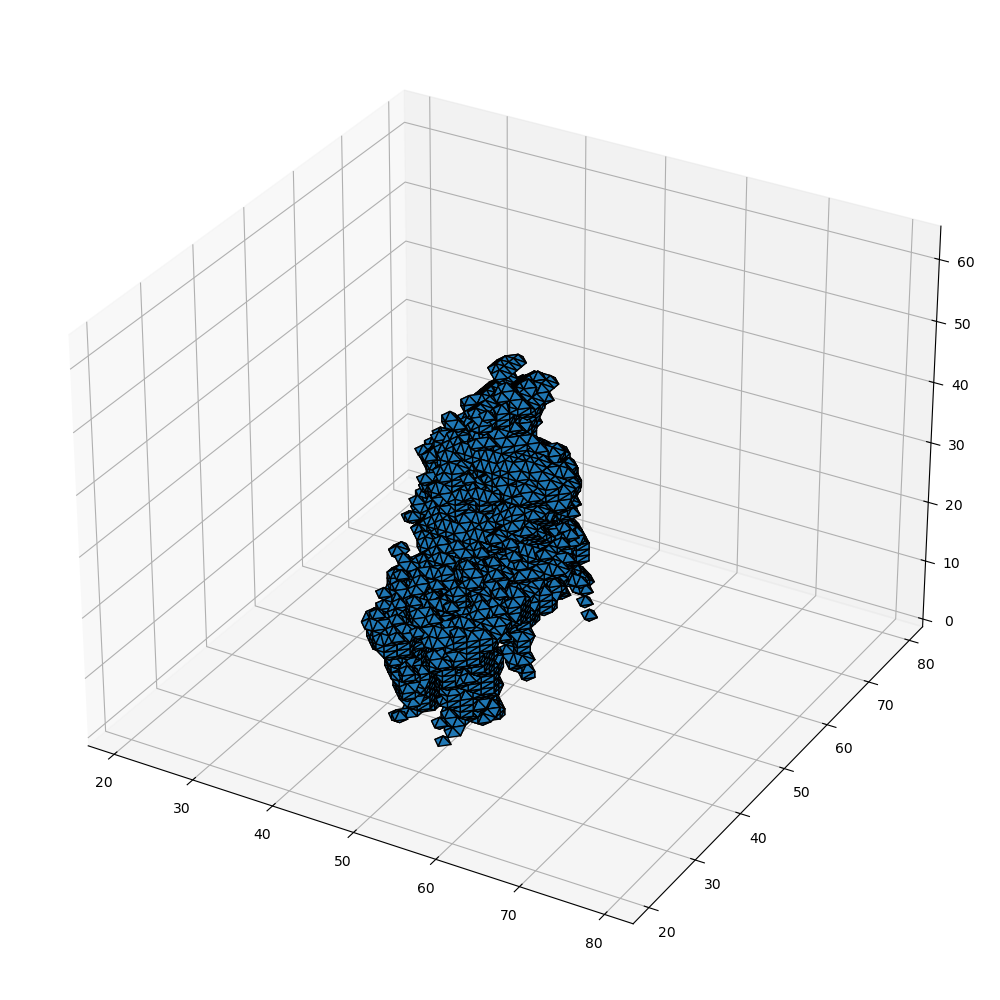
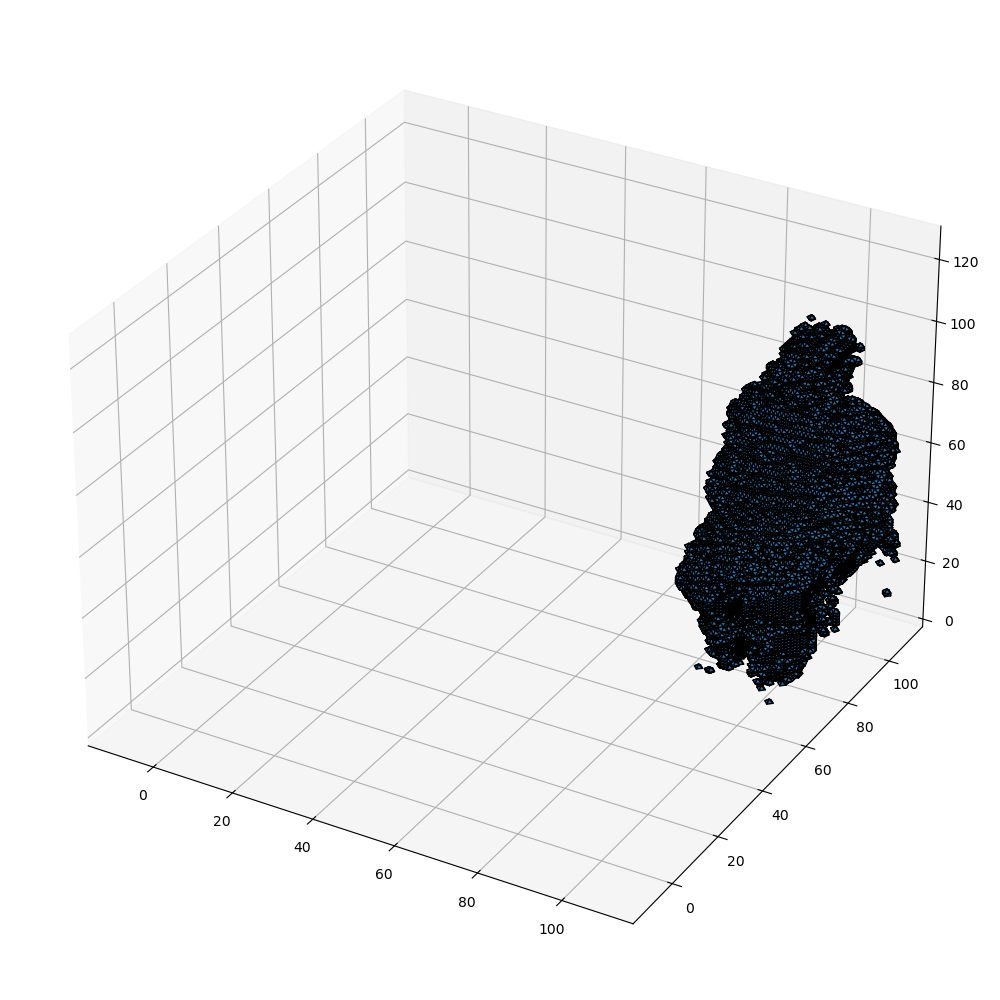
boh

diff --git a/Ass 2/settings.py b/Ass 2/settings.py
@@ -10,7 +10,7 @@ height = 7
 # Define the size of the squares of the chessboard in millimeters TODO: I think a problem could be here!
 square_size = 115
 # Define the size of the grid in millimeters
-grid_tile_size = 30
+grid_tile_size = 15
 # Plot the camera positions or not (DEFAULT: False)
 plot_camera = False
 # Interval of seconds between images (DEFAULT: 10)
